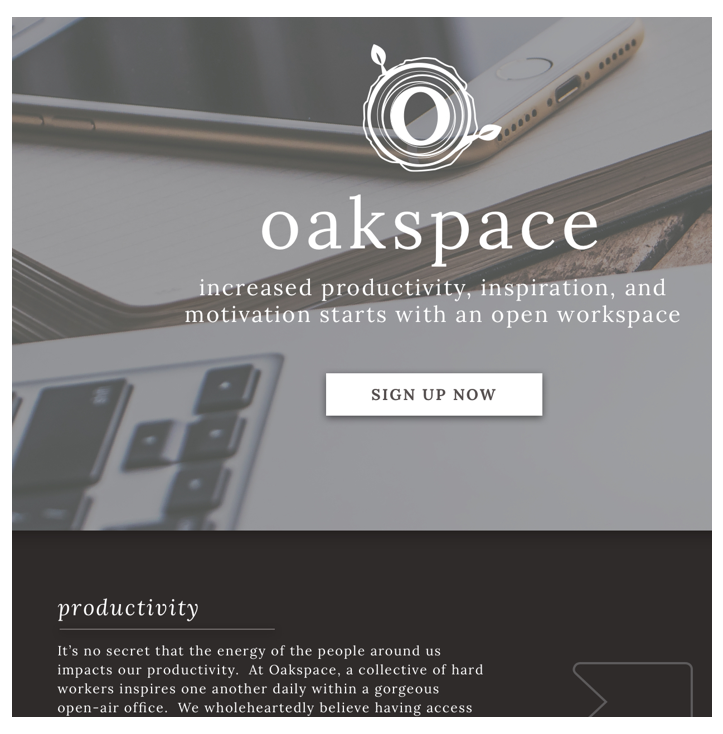
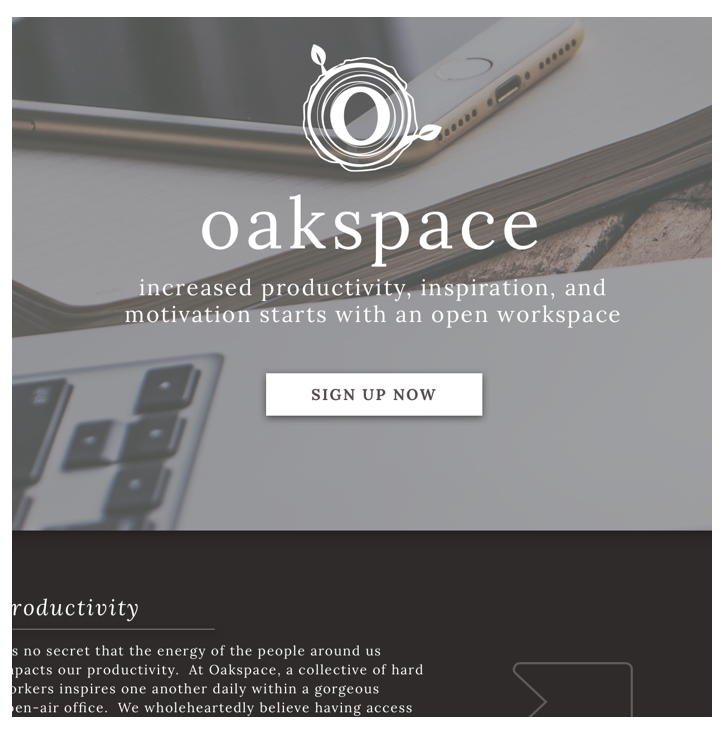
fixed text problem

diff --git a/css/style.css b/css/style.css
@@ -248,7 +248,9 @@ background-image: url("../images/Oakspace/oaksquare1.png");
     height: 400px;
     background-size:cover;
     background-repeat: no-repeat;
-    font-size: 0;
+    text-indent: -2050px;
+    font-size: 0px;
+    
 }
 
 .case-oakspace3 {
@@ -263,7 +265,9 @@ background-image: url("../images/Oakspace/oaksquare2.png");
     height: 400px;
     background-size:cover;
     background-repeat: no-repeat;
-    font-size: 0;
+    text-indent: -2050px;
+    font-size: 0px;
+
 
 }
 .case-lilypad {
